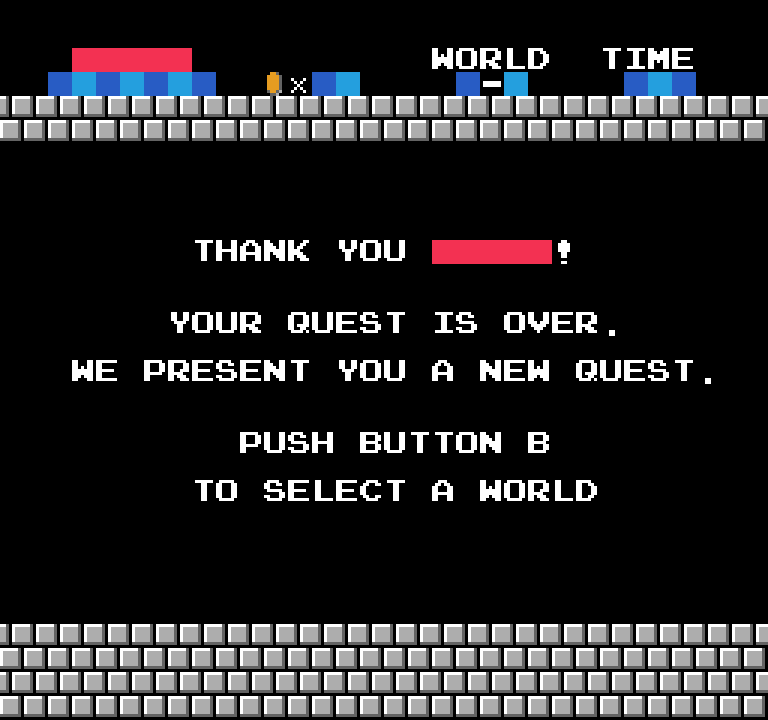
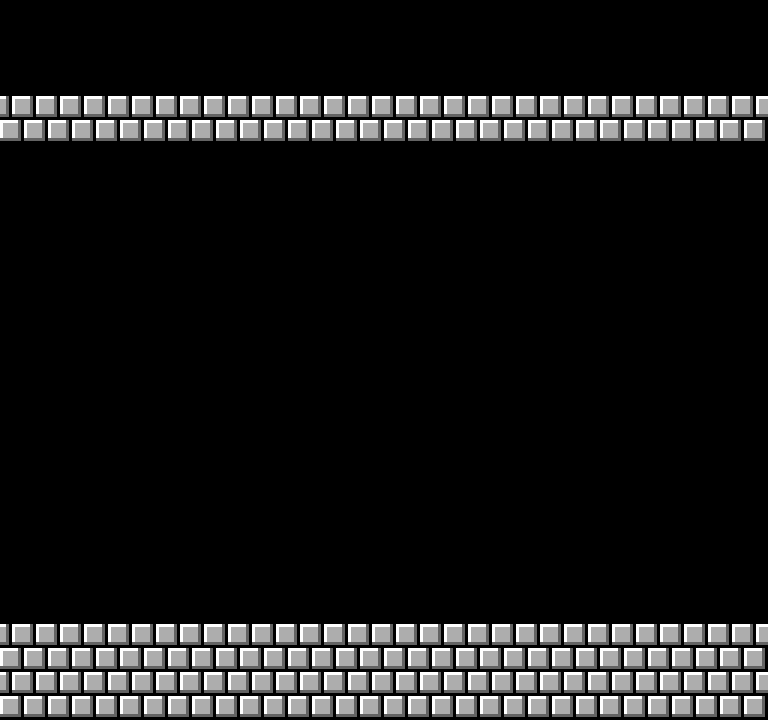
김경윤 : EndingLevel에서 Ending 메세지 출력 & Ending Message 이미지 소스 추가

diff --git a/Mario/MarioContents/EndingMessage.cpp b/Mario/MarioContents/EndingMessage.cpp
@@ -1,0 +1,28 @@
+#include "EndingMessage.h"
+#include "EnumClass.h"
+
+AEndingMessage::AEndingMessage()
+{
+}
+
+AEndingMessage::~AEndingMessage()
+{
+}
+
+void AEndingMessage::BeginPlay()
+{
+	AActor::BeginPlay();
+
+	UImageRenderer* MessageRenderer = CreateImageRenderer(static_cast<int>(TitleRenderOrder::Coin));
+	MessageRenderer->SetImage("Mario_Ending_BackGround_Message.png");
+	FVector ImageScale = MessageRenderer->GetImage()->GetScale();
+	MessageRenderer->SetTransform({ {ImageScale.ihX(), ImageScale.ihY()},{ImageScale} });
+
+	MessageRenderer->CreateAnimation("Ending_Message", "Mario_Ending_BackGround_Message.png", 0, 4, 1, false);
+	MessageRenderer->ChangeAnimation("Ending_Message");
+}
+
+void AEndingMessage::Tick(float _DeltaTime)
+{
+	AActor::Tick(_DeltaTime);
+}

diff --git a/Mario/MarioContents/EndingLevel.cpp b/Mario/MarioContents/EndingLevel.cpp
@@ -1,5 +1,6 @@
 #include "EndingLevel.h"
 #include "EndingBackGround.h"
+#include "EndingMessage.h"
 
 UEndingLevel::UEndingLevel()
 {
@@ -13,6 +14,7 @@ void UEndingLevel::BeginPlay()
 {
 	ULevel::BeginPlay();
 	AEndingBackGround* BackGround = SpawnActor<AEndingBackGround>();
+	AEndingMessage* Message = SpawnActor<AEndingMessage>();
 }
 
 void UEndingLevel::Tick(float _DeltaTime)

diff --git a/Mario/MarioContents/EndingBackGround.cpp b/Mario/MarioContents/EndingBackGround.cpp
@@ -19,6 +19,7 @@ void AEndingBackGround::BeginPlay()
 	Renderer->SetImage("Mario_Ending_Background.png");
 	FVector ImageScale = Renderer->GetImage()->GetScale();
 	Renderer->SetTransform({ {ImageScale.ihX(), ImageScale.ihY()},{ImageScale}});
+	
 }
 
 void AEndingBackGround::Tick(float _DeltaTime)

diff --git a/Mario/MarioContents/ContentsCore.cpp b/Mario/MarioContents/ContentsCore.cpp
@@ -40,6 +40,7 @@ void ContentsCore::BeginPlay()
 	}
 
 	UEngineResourcesManager::GetInst().CuttingImage("TitleCoin.png", 6, 1);
+	UEngineResourcesManager::GetInst().CuttingImage("Mario_Ending_BackGround_Message.png", 1, 5);
 
 
 	CreateLevel<UTitleLevel>("TitleLevel");
